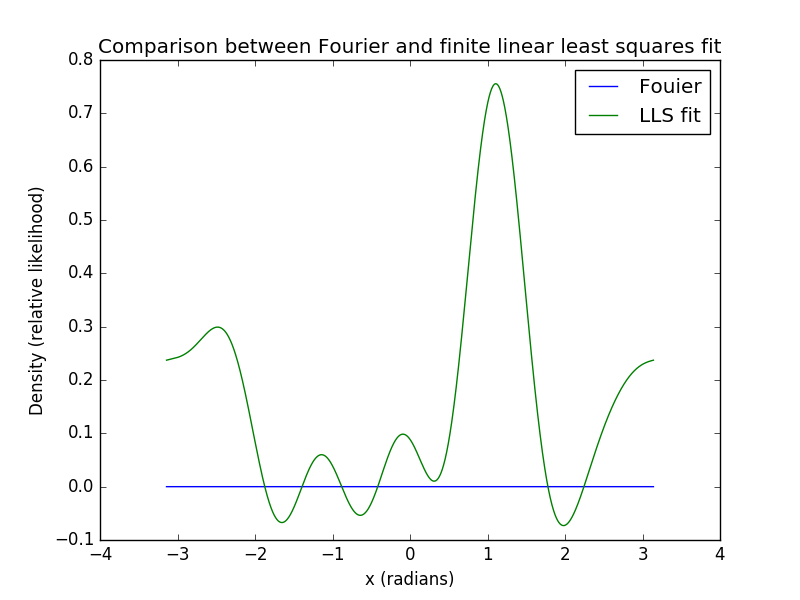
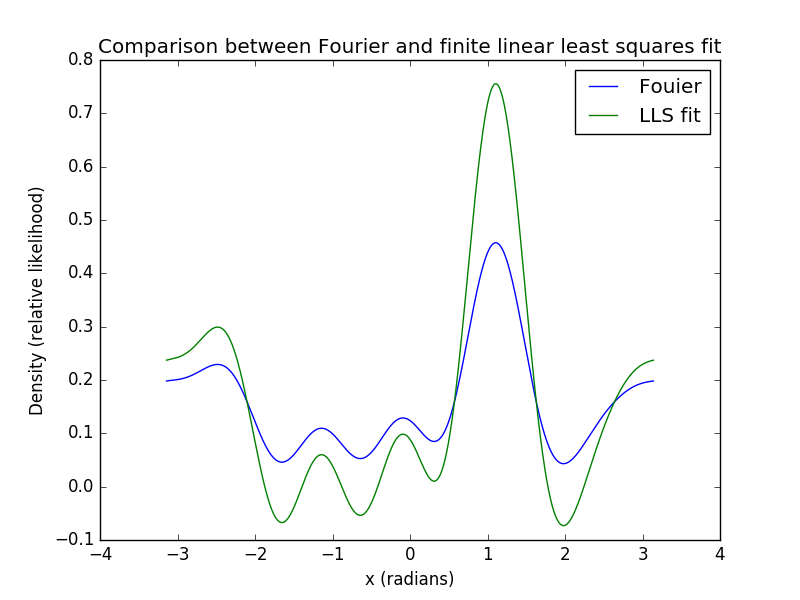
checkin

diff --git a/single-molecule-property-generation/torsion_fitting/fitting_example.py b/single-molecule-property-generation/torsion_fitting/fitting_example.py
@@ -93,7 +93,7 @@ for i in range(Ns+1):
 
 cfdist = np.zeros(Ns+1,dtype=complex)
 for i in range(Ns+1):
-    cf[i] = cn(i,y)
+    cfdist[i] = cn(i,y)
  
 y1 = np.array([ft(xi,cf,Ns).real for xi in x])  # plot the fourier series approximation.
 plt.figure(2)
